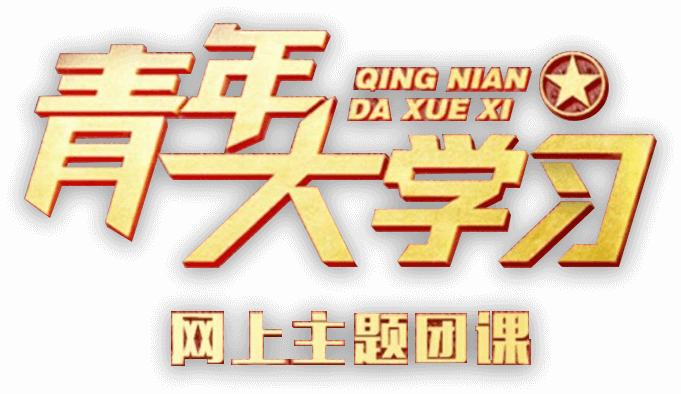
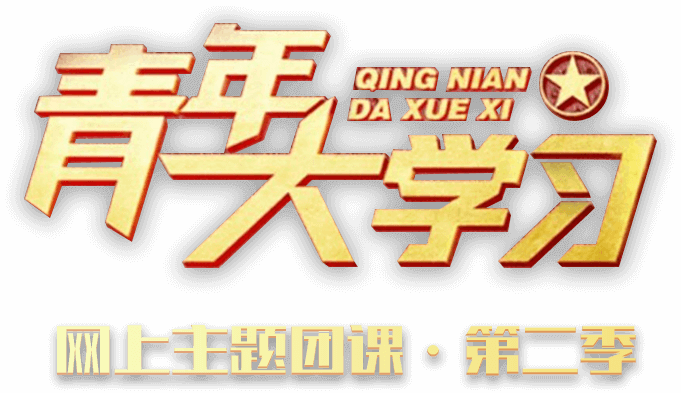
第二季

diff --git a/index.html b/index.html
@@ -21,6 +21,16 @@ ga('send', 'pageview');
         margin: 0;
     }
 
+    @font-face {
+        font-family: TT;
+        src: url("imgs/TTChaoHeiJ1.ttf");
+    }
+
+    a {
+        text-decoration:none;
+        color: #db6765;
+    }
+
     body {
         width: 100vw;
         height: 100vh;
@@ -112,64 +122,31 @@ ga('send', 'pageview');
         height: 24vw;
     }
 
-    .img {
+    .btn {
         width: 100%;
-        height: 70%;
+        height: 100%;
+        font-family: TT;
         background-repeat: no-repeat;
         background-position: center;
         background-size: contain;
+        background-image: url("imgs/btnbg.png");
+        text-align: center;
+        line-height: 26vw;
+        color: #db6765;
+        font-size: 4.7vw;
     }
 
-    .firstPeriod {
-        background-image: url(https://i.loli.net/2018/09/21/5ba463c203072.png);
+    .btn  p {
+        text-shadow: 0 0.2px 0 #a62925;
     }
 
-    .secondPeriod {
-        background-image: url(https://i.loli.net/2018/09/21/5ba463c857fca.png);
-    }
-
-    .ThirdPeriod {
-        background-image: url(https://i.loli.net/2018/09/21/5ba463cb96f60.png);
-    }
-
-    .forthPeriod {
-        background-image: url(https://i.loli.net/2018/09/21/5ba463ce4c335.png);
-    }
-
-    .fifthPeriod {
-        background-image: url(https://i.loli.net/2018/09/21/5ba463d2df216.png);
-    }
-
-    .sixthPeriod {
-        background-image: url(https://i.loli.net/2018/09/21/5ba463d62f194.png);
-    }
-
-    .seventhPeriod {
-        background-image: url(https://i.loli.net/2018/09/21/5ba463d8a577e.png);
-    }
-
-    .eighthPeriod {
-        background-image: url(https://i.loli.net/2018/09/21/5ba463db8238d.png);
-    }
-
-    .ninthPeriod {
-        background-image: url(https://i.loli.net/2018/09/25/5ba9d0673b3c4.png);
-    }
-
-    .ninthPeriod {
-        background-image: url(https://i.loli.net/2018/09/25/5ba9d0673b3c4.png);
-    }
-
-    .tenthPeriod {
-        background-image: url(imgs/10.png);
-    }
 </style>
 </head>
 
 <body>
     <div class="headPage">
         <div class="name">
-            <img src="https://i.loli.net/2018/09/21/5ba46221ee923.png">
+            <img src="imgs/name.png">
         </div>
         <div class="book">
             <img src="https://i.loli.net/2018/09/21/5ba462221f1ac.png">
@@ -181,77 +158,29 @@ ga('send', 'pageview');
             <img src="https://i.loli.net/2018/09/21/5ba463246c532.png">
         </div>
         <div class="Row">
-            <a href="http://h5.cyol.com/special/daxuexiq1/index.php">
+            <a href="http://h5.cyol.com/special/daxuexi2q1/m.php">
                 <div class="container">
-                    <div class="img firstPeriod"></div>
+                    <div class="btn">
+                        <p>第一期</p>
+                    </div>                   
                 </div>
             </a>
-            <a href="http://h5.cyol.com/special/daxuexiw2/index.php">
+            <a href="http://h5.cyol.com/special/daxuexi2w2/m.php">
                 <div class="container">
-                    <div class="img secondPeriod"></div>
+                    <div class="btn">
+                        <p>第二期</p>
+                    </div>
                 </div>
             </a>
-            <a href="http://h5.cyol.com/special/daxuexie3/index.php">
                 <div class="container">
-                    <div class="img ThirdPeriod"></div>
-                </div>
-            </a>
-            <a href="http://h5.cyol.com/special/daxuexir4/index.php">
-                <div class="container">
-                    <div class="img forthPeriod"></div>
-                </div>
-            </a>
-            <a href="http://h5.cyol.com/special/daxuexit5/index.php">
-                <div class="container">
-                    <div class="img fifthPeriod"></div>
-                </div>
-            </a>
-            <a href="http://h5.cyol.com/special/daxuexiy6/index.php">
-                <div class="container">
-                    <div class="img sixthPeriod"></div>
-                </div>
-            </a>
-            <a href="http://h5.cyol.com/special/daxuexiu7/index.php">
-                <div class="container">
-                    <div class="img seventhPeriod"></div>
-                </div>
-            </a>
-            <a href="http://h5.cyol.com/special/daxuexii8/m.php">
-                <div class="container">
-                    <div class="img eighthPeriod"></div>
-                </div>
-            </a>
-             <a href="http://h5.cyol.com/special/daxuexio9/m.php">
-                <div class="container">
-                    <div class="img ninthPeriod"></div>
-                </div>
-            </a>
-             <a href="http://h5.cyol.com/special/daxuexip10/m.php">
-                <div class="container">
-                    <div class="img tenthPeriod"></div>
-                </div>
-            </a>
-            <div class="container">
-                </div>
-                <div class="container">
-                </div>
+                </div> 
         </div>
         <div class="copy">
             <p>&copy;红岩网校工作站</p>
         </div>
     </div>
     <script type="text/javascript">
-    new Image().src = 'https://i.loli.net/2018/09/21/5ba463c203072.png';
-    new Image().src = 'https://i.loli.net/2018/09/21/5ba463c857fca.png';
-    new Image().src = 'https://i.loli.net/2018/09/21/5ba463cb96f60.png';
-    new Image().src = 'https://i.loli.net/2018/09/21/5ba463ce4c335.png';
-    new Image().src = 'https://i.loli.net/2018/09/21/5ba463d2df216.png';
-    new Image().src = 'https://i.loli.net/2018/09/21/5ba463d62f194.png';
-    new Image().src = 'https://i.loli.net/2018/09/21/5ba463d8a577e.png';
-    new Image().src = 'https://i.loli.net/2018/09/21/5ba463db8238d.png';
-    new Image().src = 'https://i.loli.net/2018/09/25/5ba9d0673b3c4.png';
-    new Image().src = 'https://i.loli.net/2018/09/21/5ba463246c532.png';
-    new Image().src = 'imgs/10.png';
+    new Image().src = 'imgs/btnbg.png';
 
 
     document.querySelector(".startStu").addEventListener('touchstart', function() {
